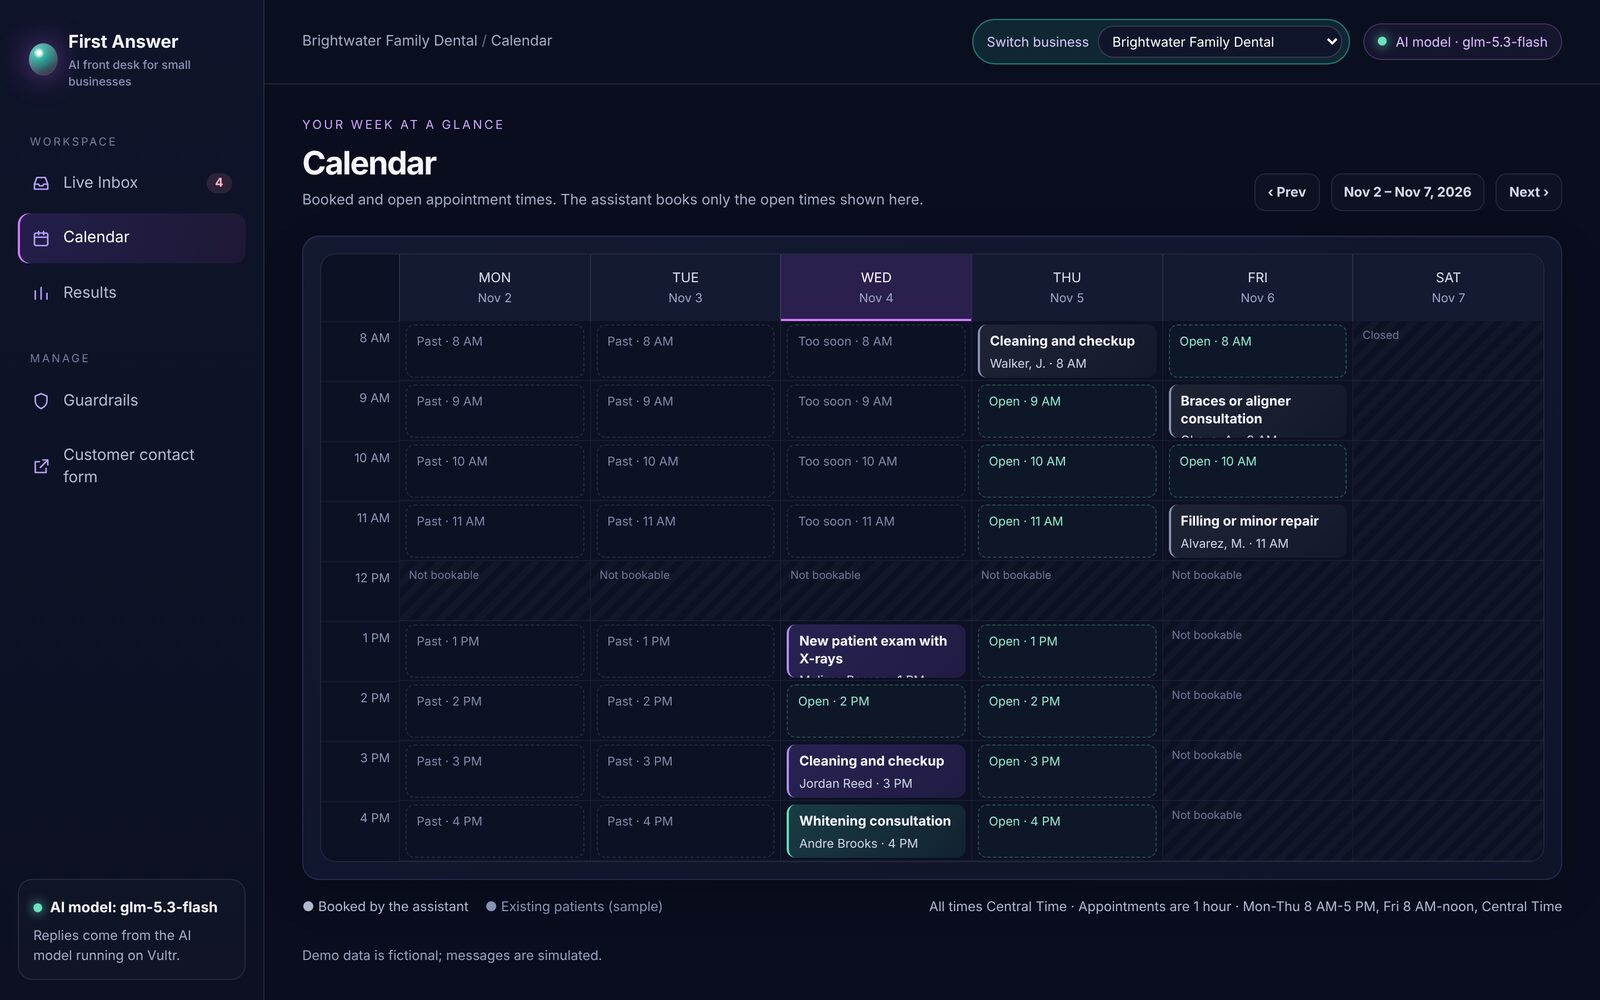
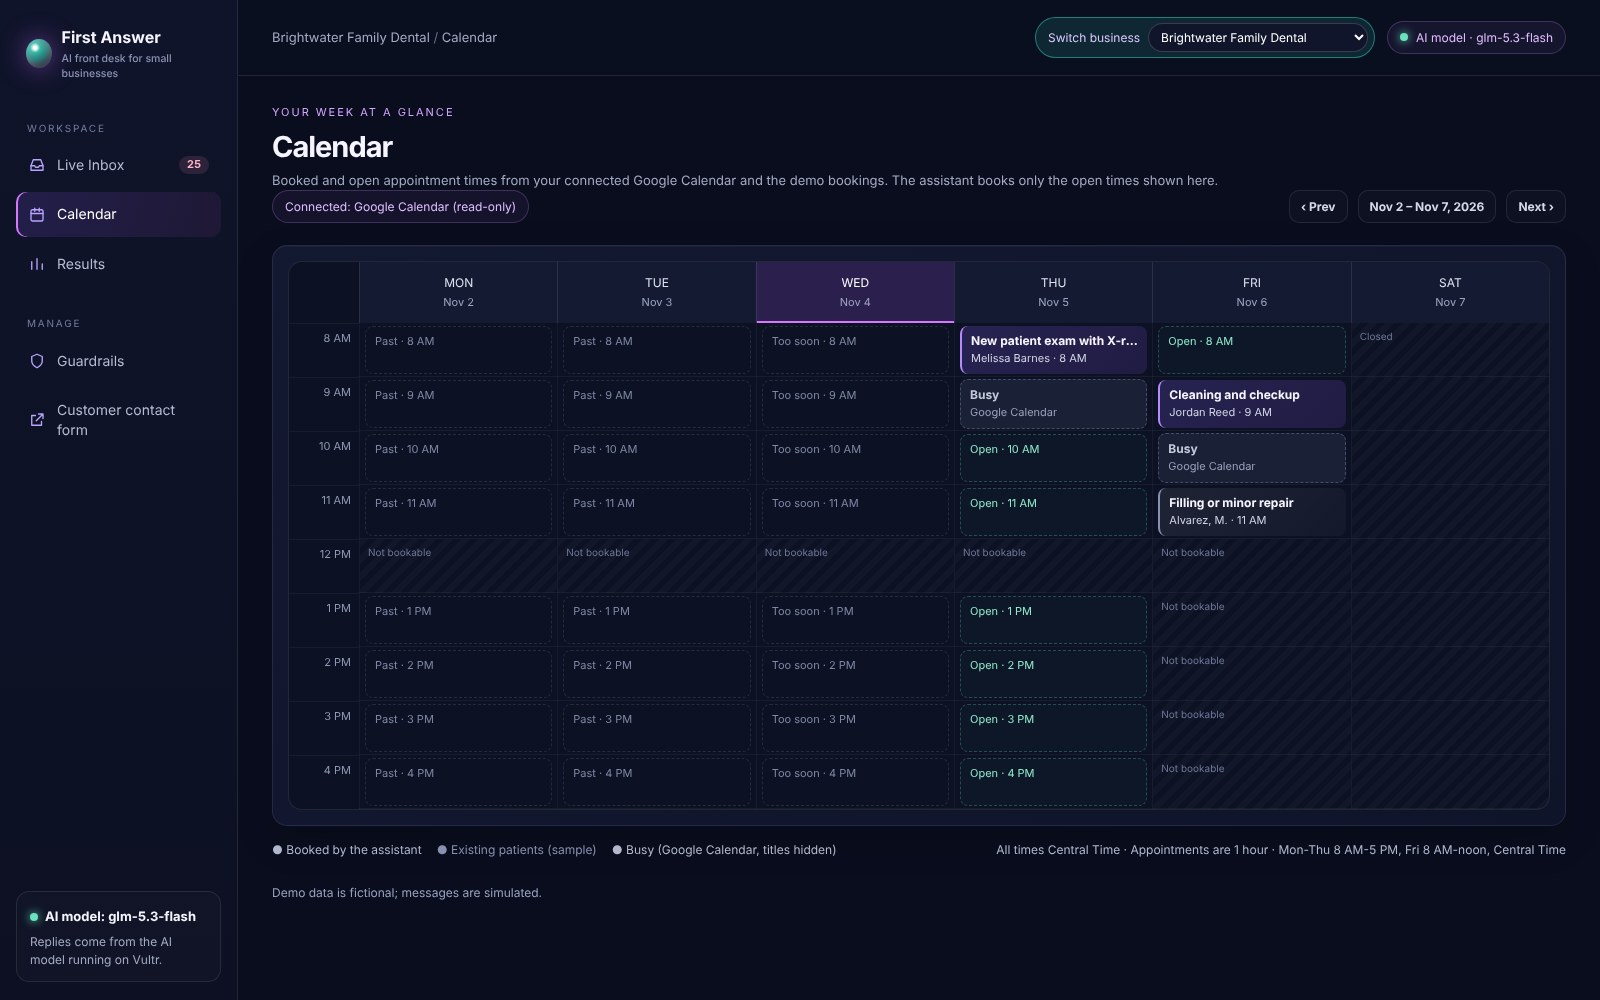
README: reframe waiting wording, live Google Calendar screenshot, Results explanation, source refusal numbers
Claude-Session: https://claude.ai/code/session_01HUSseLV9L3fPVtWv31s9pU

diff --git a/README.md b/README.md
@@ -28,13 +28,13 @@ Demo data is fictional and no text or email is ever sent. Please use made-up det
 | Handoff to a person | **Real phone alert plus dashboard status.** When an inquiry is handed to a person, the app sends a push notification to the owner's phone through [ntfy](https://ntfy.sh) (only if `NTFY_TOPIC` is set; see the environment table) and marks the inquiry "Needs a Human" in the dashboard. The alert carries the business name, the customer's first name and a fixed category such as "Angry customer" built in code, never a phone number or any message text. |
 | Intake channels | The **website form is the only real intake channel.** Inquiries shown as "Text message" or "Phone call" are simulated examples and carry a "simulated source" tag in the dashboard. |
 | Customers and sample inquiries | **Simulated** (fictional names, 555 numbers) |
-| The calendar | **Demo calendar by default.** Unless you connect one (see the section below on connecting one), it is the app's own calendar. An optional **read-only** Google Calendar feed can make one business's real busy times block slots; the app never writes to it. The Calendar page, the agent's timeline and `/api/health` always say which calendar was used. Customers can download a calendar file or open a Google Calendar link for a booked demo appointment; that is a sample event in their own calendar, not a booking in any system. |
+| The calendar | **A real, read-only Google Calendar feed is connected on the live demo** (its Busy blocks show on the Calendar page); without a feed, the app uses its own demo calendar. Bookings are saved in the app only. An optional **read-only** Google Calendar feed can make one business's real busy times block slots; the app never writes to it. The Calendar page, the agent's timeline and `/api/health` always say which calendar was used. Customers can download a calendar file or open a Google Calendar link for a booked demo appointment; that is a sample event in their own calendar, not a booking in any system. |
 
 If the AI model is not connected, cannot be reached or has reached its hourly limit, the app switches to **backup mode**: built-in rules that follow the same steps and use the same safety checks. The header badge and `/api/health` say which mode is active. The badge shows a model name only while the AI model is really answering, and `/api/health` reports `modelVerified: true` only after a real test call to the model succeeded.
 
 ## Why it matters
 
-Customers hate waiting on hold, getting voicemail or hearing "someone will call you back", especially when the owner is with another client, on a job site or closed for the night, and the person who finally answers may not know the answer. First Answer Agent answers right away, any hour, and knows the business's hours, services, prices and openings. It asks the one question it needs, offers open times from the demo calendar, books the visit in the app, and brings in a person only when needed, telling the customer so. The dashboard shows how long each reply actually took and whether the AI model or the built-in rules wrote it.
+Customers hate waiting for a callback: voicemail, "someone will call you back", a wait while the owner is with another client, on a job site or closed for the night, and the person who finally answers may not know the answer. With First Answer Agent there is no waiting on hold, voicemail or callbacks: the customer gets an answer right on the page (the website form is the intake channel in this prototype), any hour. The agent knows the business's hours, services, prices and openings. It asks the one question it needs, offers open times from the demo calendar, books the visit in the app, and brings in a person only when needed, telling the customer so. The dashboard shows how long each reply actually took and whether the AI model or the built-in rules wrote it.
 
 ## What you can see in the app
 
@@ -62,11 +62,11 @@ Taken on the live deployment (<https://155-138-206-164.sslip.io>) with the real 
 
 ![Inquiry detail with the step list](docs/screenshots/02-dental-inquiry-detail.jpg)
 
-**3. Calendar.** One week of booked and open appointment times from the app's own calendar, including "too soon", closed and not-bookable slots.
+**3. Calendar.** One week of booked and open appointment times. On the live demo a read-only Google Calendar feed is connected, and its Busy blocks (titles hidden) appear on the Calendar page next to the app's own demo bookings, plus "too soon", closed and not-bookable slots. Retaken from the live app on Nov 4, 2026.
 
 ![Calendar for the dental office](docs/screenshots/03-dental-calendar.jpg)
 
-**4. Results.** Median reply time of live replies with the AI model and built-in rules shown separately, plus a reply time bar per inquiry. The dashboard counts all traffic, including test traffic; see "Measured on the live deployment" for the controlled 30-inquiry test.
+**4. Results.** Median reply time of live replies with the AI model and built-in rules shown separately, plus a reply time bar per inquiry. This is a live screenshot retaken on Nov 4, 2026 and it counts all traffic, including seed and test inquiries (for example, "Needs a person 23 (9%)" includes earlier guardrail test messages). "Appointments booked" shows 0 because demo bookings are released after 30 minutes, so it reads low at any moment. See "Measured on the live deployment" for the controlled 30-inquiry test.
 
 ![Results screen](docs/screenshots/04-dental-results.jpg)
 
@@ -107,6 +107,7 @@ Taken on the live deployment (<https://155-138-206-164.sslip.io>) with the real 
 * Built-in rules answered simple availability and pick requests in about 0.4 s (median). The AI model answered open-ended questions in about 7 s (median). The safety checks apply to both.
 * **0 of 110 offered times** were invented, busy or closed (each offered time was checked against the calendar).
 * **527 automated tests** pass (`npm test`).
+* "7 of 7 live refusals" (used on the deck): in a live run on Nov 4, a customer answered an offered time with a refusal such as "no thanks" seven times and nothing was booked. "192 offline refusal flows": end-to-end flows (dental, salon and accounting profiles, one or three offered times, built-in rules or a model that tries to book the first offered slot, 16 refusal phrasings) run by a separate AI reviewer session (its review 23); all 192 created no booking. Those reviewer scripts are not part of `npm test` and are not in this repository, so treat these two numbers as reported results, not something you can re-run here.
 * The 0.4 s figure is for rules-first replies. An older single-reply figure of about 7.9 s for built-in rules was a fallback that ran after a failed model attempt, which is why it was slow.
 * The live Results screen counts everything that has hit the app, including seed and test traffic, so its totals and percentages differ from this controlled test. Do not compare the two. Reply time is measured from the inquiry arriving to the first reply.
 * "Independent review rounds" (about 23) means separate AI reviewer sessions that tested the code adversarially. They are not human audits.
